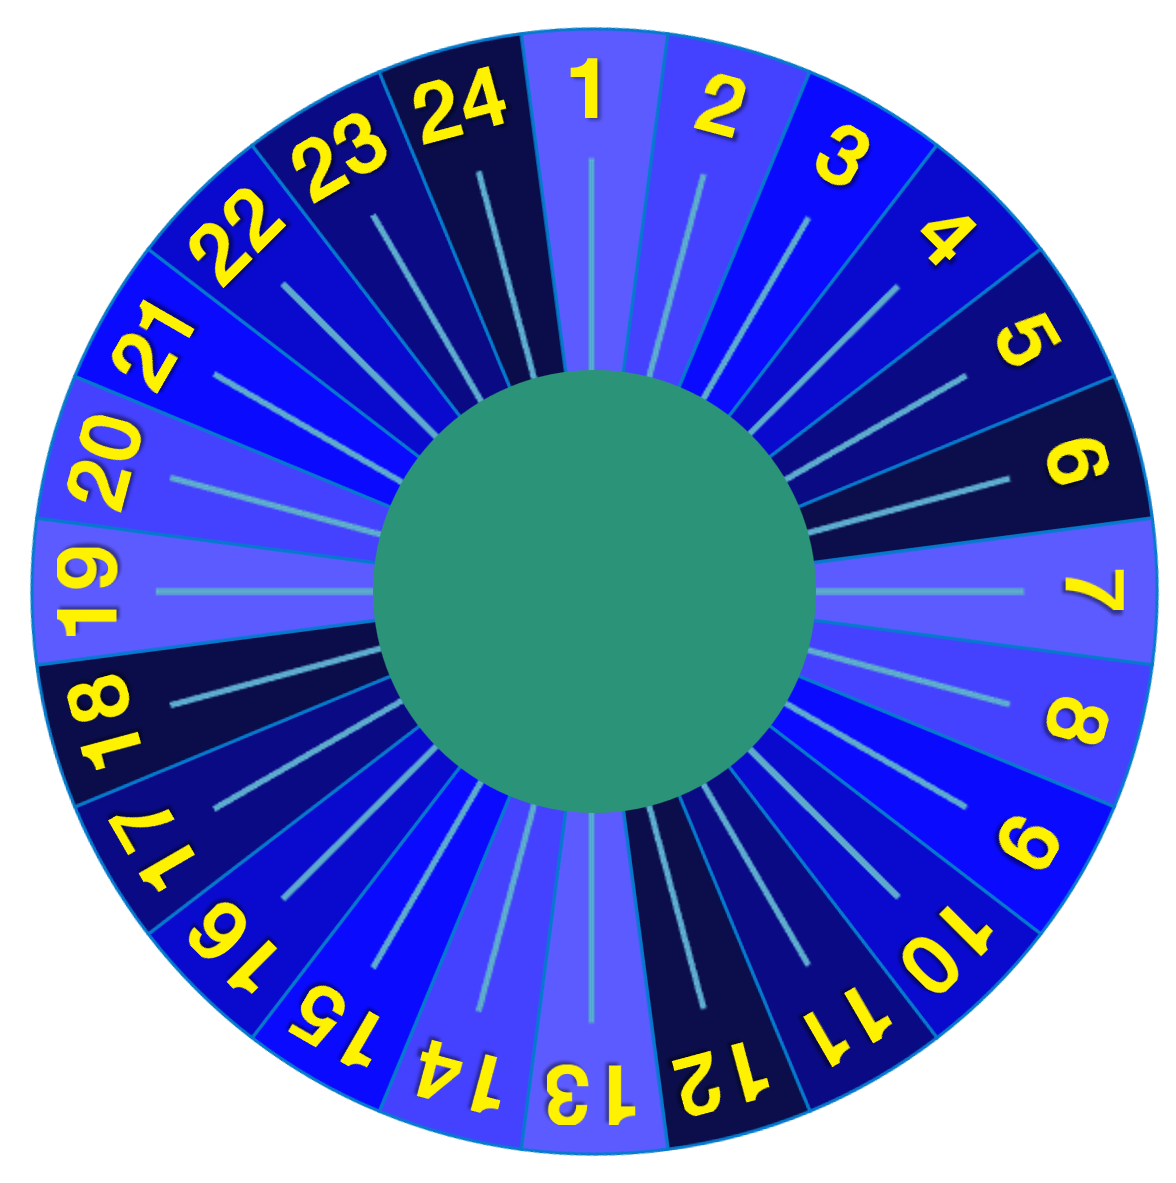
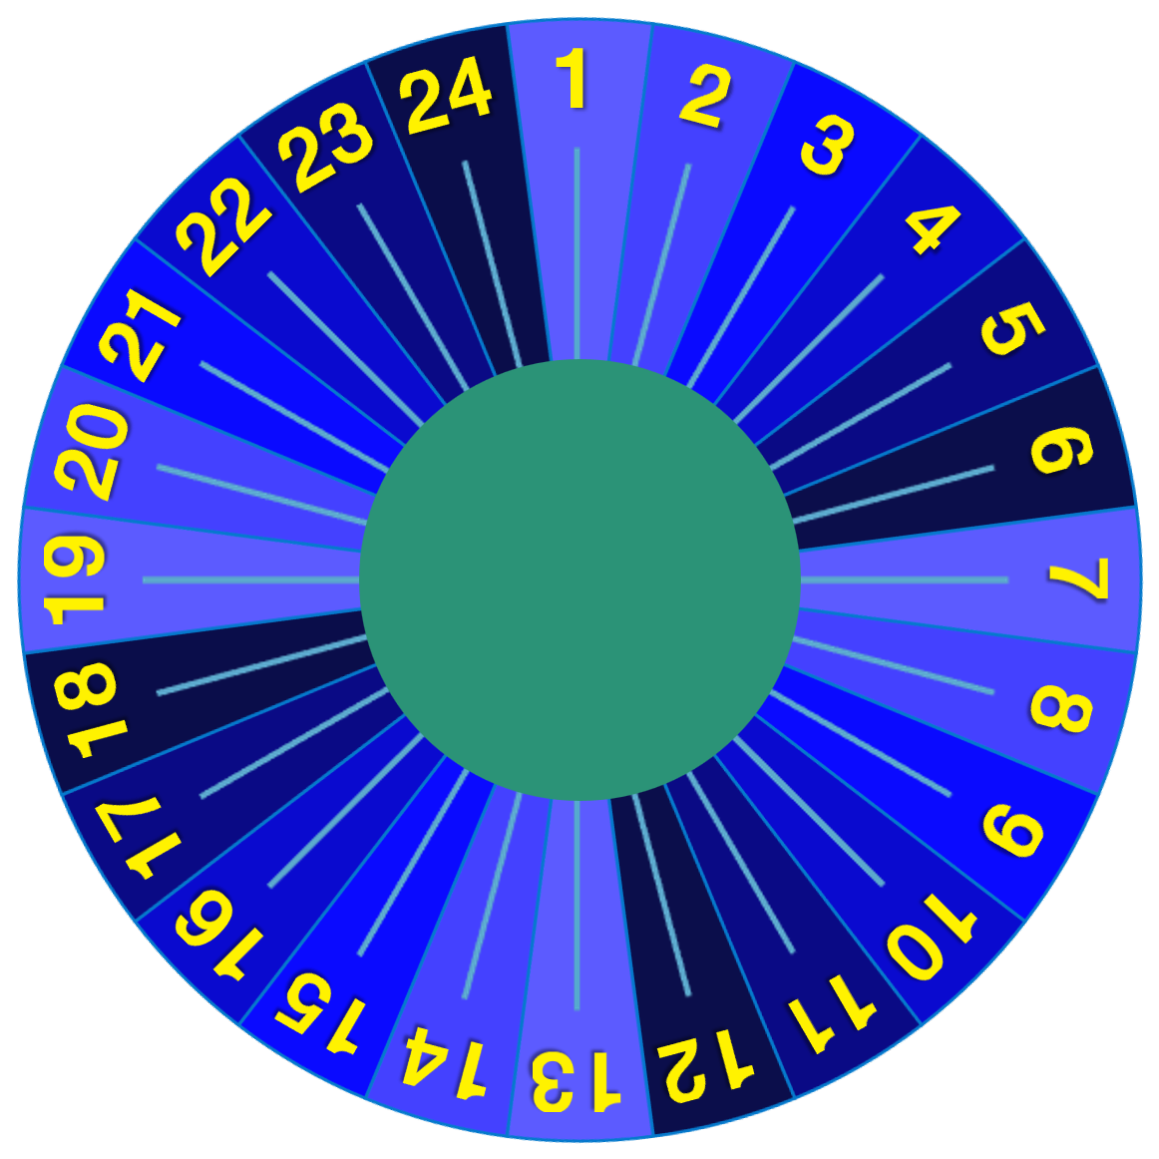
Add files via upload

diff --git a/Controller.html b/Controller.html
@@ -245,6 +245,35 @@
                 <div id="roomError" style="margin-top: 8px; color: red; font-size: 13px;"></div>
             </div>
 
+            <!-- MỤC BÍ MẬT -->
+            <div class="section">
+                <div style="display: flex; justify-content: space-between; align-items: center; margin-bottom: 8px;">
+                    <h2 style="margin: 0;">Bí mật</h2>
+                    <button onclick="randomMysteryValues()" style="background: #ffff00; color: #000000; padding: 5px 12px; font-size: 13px; border-radius: 4px; border: 1px solid #cca300; cursor: pointer; font-weight: bold; transition: 0.2s;" onmouseover="this.style.background='#ffea00'" onmouseout="this.style.background='#ffff00'">Random</button>
+                </div>
+                <div style="display: grid; grid-template-columns: 1fr 1fr; gap: 8px;">
+                    <!-- Hàng 1: 2 ô 2.500 BM 600, 900 BM 300 -->
+                    <div style="background: #1e293b; color: #facc15; padding: 10px 4px; text-align: center; border-radius: 5px; font-weight: bold; font-size: 13px; border: 1px solid #eab308; box-shadow: inset 0 0 5px rgba(0,0,0,0.5);">
+                        2.500 BM 600
+                    </div>
+                    <div style="background: #1e293b; color: #facc15; padding: 10px 4px; text-align: center; border-radius: 5px; font-weight: bold; font-size: 13px; border: 1px solid #eab308; box-shadow: inset 0 0 5px rgba(0,0,0,0.5);">
+                        900 BM 300
+                    </div>
+
+                    <!-- Hàng 2: Giá trị của 2 ô này (1 là x2, 1 là Mất điểm) -->
+                    <div id="mystery-val-1" onclick="toggleMysteryTile(0)" style="cursor: pointer; background: #008000; color: white; padding: 10px 4px; text-align: center; border-radius: 5px; font-weight: bold; font-size: 14px; border: 2px solid white; user-select: none; transition: 0.2s; box-shadow: 0 2px 4px rgba(0,0,0,0.3);" title="Nhấp để đổi giá trị">
+                        x2
+                    </div>
+                    <div id="mystery-val-2" onclick="toggleMysteryTile(1)" style="cursor: pointer; background: #ff0000; color: white; padding: 10px 4px; text-align: center; border-radius: 5px; font-weight: bold; font-size: 14px; border: 2px solid white; user-select: none; transition: 0.2s; box-shadow: 0 2px 4px rgba(0,0,0,0.3);" title="Nhấp để đổi giá trị">
+                        Mất điểm
+                    </div>
+                </div>
+                <div style="display: flex; gap: 6px; margin-top: 8px;">
+                    <button onclick="toggleMysteryHidden()" id="btnMysteryHidden" style="flex: 1; background: #334155; color: white; padding: 5px; font-size: 11px; border: 1px solid #64748b; border-radius: 4px; cursor: pointer;">Ẩn / Hiện</button>
+                    <button onclick="swapMysteryValues()" style="flex: 1; background: #334155; color: white; padding: 5px; font-size: 11px; border: 1px solid #64748b; border-radius: 4px; cursor: pointer;">Đổi Chỗ</button>
+                </div>
+            </div>
+
             <!-- MỤC QUẢN LÝ SOUNDBOARD -->
             <div class="section">
                 <h2>Quản lý Soundboard</h2>
@@ -674,6 +703,10 @@
                 }
                 if (data.wheel_state.pointerLights) {
                     globalPointerLights = Object.assign(globalPointerLights, data.wheel_state.pointerLights);
+                }
+                if (data.wheel_state.mysteryValues && Array.isArray(data.wheel_state.mysteryValues)) {
+                    mysteryValues = data.wheel_state.mysteryValues;
+                    updateMysteryUI();
                 }
                 if (data.wheel_state.specialWedges && data.wheel_state.specialWedges.length > 0) {
                     currentSpecialWedges = data.wheel_state.specialWedges;
@@ -1165,9 +1198,99 @@
             updateWheelStateFields({ spinButtons: globalSpinButtons });
         }
 
+        // QUẢN LÝ THẺ BÍ MẬT
+        let mysteryValues = ['x2', 'Mất điểm'];
+        let isMysteryHidden = false;
+
+        function updateMysteryUI() {
+            const el1 = document.getElementById('mystery-val-1');
+            const el2 = document.getElementById('mystery-val-2');
+            const btnHide = document.getElementById('btnMysteryHidden');
+            if (!el1 || !el2) return;
+
+            const val1 = mysteryValues[0];
+            const val2 = mysteryValues[1];
+
+            if (isMysteryHidden) {
+                el1.innerText = 'Bí mật';
+                el1.style.background = '#475569';
+                el1.style.color = '#e2e8f0';
+
+                el2.innerText = 'Bí mật';
+                el2.style.background = '#475569';
+                el2.style.color = '#e2e8f0';
+                if (btnHide) btnHide.innerText = 'Hiện';
+            } else {
+                el1.innerText = val1;
+                el1.style.background = val1 === 'x2' ? '#008000' : '#ff0000';
+                el1.style.color = '#ffffff';
+
+                el2.innerText = val2;
+                el2.style.background = val2 === 'x2' ? '#008000' : '#ff0000';
+                el2.style.color = '#ffffff';
+                if (btnHide) btnHide.innerText = 'Ẩn';
+            }
+        }
+
+        function randomMysteryValues() {
+            if (Math.random() < 0.5) {
+                mysteryValues = ['x2', 'Mất điểm'];
+            } else {
+                mysteryValues = ['Mất điểm', 'x2'];
+            }
+            updateMysteryUI();
+            saveMysteryState();
+        }
+
+        function swapMysteryValues() {
+            mysteryValues = [mysteryValues[1], mysteryValues[0]];
+            updateMysteryUI();
+            saveMysteryState();
+        }
+
+        function toggleMysteryTile(index) {
+            const current = mysteryValues[index];
+            const newVal = current === 'x2' ? 'Mất điểm' : 'x2';
+            mysteryValues[index] = newVal;
+            const otherIdx = index === 0 ? 1 : 0;
+            mysteryValues[otherIdx] = newVal === 'x2' ? 'Mất điểm' : 'x2';
+            updateMysteryUI();
+            saveMysteryState();
+        }
+
+        function toggleMysteryHidden() {
+            isMysteryHidden = !isMysteryHidden;
+            updateMysteryUI();
+        }
+
+        function saveMysteryState() {
+            const key = roomId ? 'mystery_values_' + roomId : 'mystery_values_default';
+            try {
+                localStorage.setItem(key, JSON.stringify(mysteryValues));
+            } catch (e) { }
+            if (roomId) {
+                updateWheelStateFields({ mysteryValues: mysteryValues });
+            }
+        }
+
+        function loadMysteryState() {
+            const key = roomId ? 'mystery_values_' + roomId : 'mystery_values_default';
+            try {
+                const saved = localStorage.getItem(key);
+                if (saved) {
+                    const parsed = JSON.parse(saved);
+                    if (Array.isArray(parsed) && parsed.length === 2) {
+                        mysteryValues = parsed;
+                    }
+                }
+            } catch (e) { }
+            updateMysteryUI();
+        }
+
         initPlayerCardControls('red');
         initPlayerCardControls('yellow');
         initPlayerCardControls('blue');
+        loadMysteryState();
 
         loadRoomInfo();
         initChannel();
